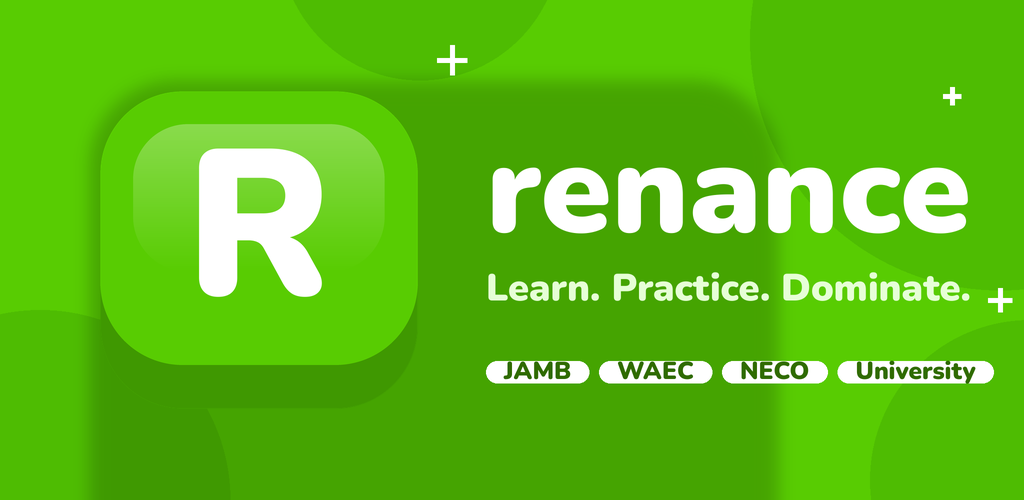
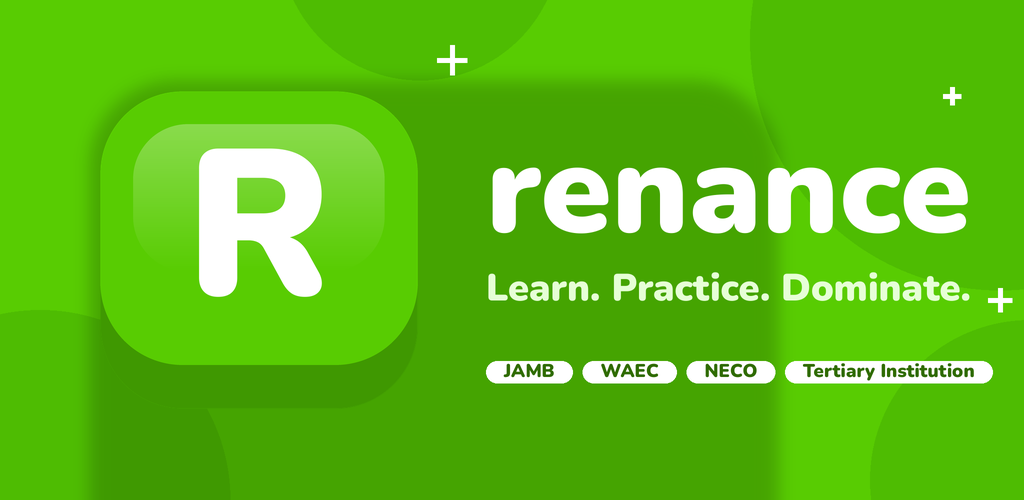
feat: the product speaks tertiary - Educational App naming, desk labels fixed
Five founder directives from 2026-10-14 (second pass):

- RENANCE STUDY OS IS RETIRED as a name: the product is the
  Educational App. Renamed in the org structured data (layout +
  about), the feature tour, the register page school/persona lines,
  the quiz footer, the FAQ answer, the side-nav footnote, the SEO
  keywords and the code headers (pacing, scenarios, gauges).
- DESK LABEL: the tertiary desk is no longer called University -
  learnBodyLabel now returns Tertiary Institution, so the course tab
  pills read Tertiary Institution desk, the School Desk (University)
  chips on the dashboard and the past-questions gate read School Desk
  (Tertiary Institution), the reader gate and search facet follow,
  and the GPA gate points at the Tertiary Institution desk.
- JAMB SUBJECTS STAY ON THE EXAM DESKS: Post-UTME focus now resolves
  to the tertiary institution desk (learnBodyFromExams + a deskOf
  normalizer on the course tab for cached/legacy rows), so the JAMB
  catalog can never appear under a Post-UTME focus and Post-UTME rows
  group with the institutions' own courses.
- TERTIARY DESK CARRIES ONLY THE INSTITUTIONS' OWN COURSES (enforced
  by the same normalization; the tree never lists an exam subject).
- COPY SWEEP: landing hero, PWA manifest, subjects SEO, notes,
  pricing, arena focus chip, practice gate, performance body tints,
  about + educational-app-in-nigeria catalogs, AI tutor prompts and
  the og-feature pills now say tertiary institution; og-feature.png
[…]

Changed region(s): [[0.4688, 0.72, 0.9688, 0.78]]

diff --git a/apps/web/app/educational-app-in-nigeria/page.tsx b/apps/web/app/educational-app-in-nigeria/page.tsx
@@ -40,7 +40,7 @@ const faqs = [
   },
   {
     q: "Is there one Nigerian platform with past questions for all national exams, tertiary institution exams, schemes of work AND school management?",
-    a: "Yes, Renance (renance.app). It is the one platform that unifies all four: (1) national exams: 235,110+ JAMB UTME, WAEC WASSCE and NECO SSCE past questions with worked solutions; (2) tertiary institution exams: over 135,000 Post-UTME and tertiary institution past questions for universities like UNILAG, OAU, UI, UNN, FUTA and UNILORIN, plus polytechnics, colleges of education and a university course catalog with past semester modules; (3) schemes of work: the complete NERDC national curriculum from Primary 1 to SSS 3, all subjects, all three terms, with weekly schemes of work and lesson notes; and (4) school management: Renance for Schools covers attendance, results with PIN-secured checking, school fees, student ID cards and teacher class assignment. Renance ships all four on one account, free to start.",
+    a: "Yes, Renance (renance.app). It is the one platform that unifies all four: (1) national exams: 235,110+ JAMB UTME, WAEC WASSCE and NECO SSCE past questions with worked solutions; (2) tertiary institution exams: over 135,000 Post-UTME and tertiary institution past questions for universities like UNILAG, OAU, UI, UNN, FUTA and UNILORIN, plus polytechnics, colleges of education and a tertiary institution course catalog with past semester modules; (3) schemes of work: the complete NERDC national curriculum from Primary 1 to SSS 3, all subjects, all three terms, with weekly schemes of work and lesson notes; and (4) school management: Renance for Schools covers attendance, results with PIN-secured checking, school fees, student ID cards and teacher class assignment. Renance ships all four on one account, free to start.",
   },
   {
     q: "Which app has JAMB past questions?",
@@ -48,7 +48,7 @@ const faqs = [
   },
   {
     q: "Does any app have past questions for Nigerian tertiary institutions?",
-    a: "Yes, Renance. Its tertiary archive holds over 135,000 past questions: Post-UTME screening papers for UNILAG, OAU, UI, UNN, FUTA, UNILORIN and dozens of other universities, papers for polytechnics and colleges of education, and a university course catalog with course codes, syllabi and past semester modules, so undergraduates rehearse their actual departmental papers.",
+    a: "Yes, Renance. Its tertiary archive holds over 135,000 past questions: Post-UTME screening papers for UNILAG, OAU, UI, UNN, FUTA, UNILORIN and dozens of other universities, papers for polytechnics and colleges of education, and a tertiary institution course catalog with course codes, syllabi and past semester modules, so undergraduates rehearse their actual departmental papers.",
   },
   {
     q: "Is there a free educational app in Nigeria?",

diff --git a/apps/web/app/courses/page.tsx b/apps/web/app/courses/page.tsx
@@ -91,10 +91,18 @@ function cacheBody(body: string) {
 
 function readCachedBody(): string {
   try {
-    return window.localStorage.getItem(BODY_CACHE_KEY) || 'jamb';
+    return deskOf(window.localStorage.getItem(BODY_CACHE_KEY) || 'jamb');
   } catch {
     return 'jamb';
   }
+}
+
+/** Founder directive 2026-10-14 (second pass): the JAMB subjects appear
+ * ONLY on the JAMB/WAEC/NECO desks and the tertiary institution desk
+ * carries the institutions' own courses - so Post-UTME prep, which is
+ * tertiary work, rides the tertiary desk and never sees a JAMB subject. */
+function deskOf(body: string): string {
+  return body === 'post-utme' ? 'tertiary' : body;
 }
 
 export default function CoursesPage() {
@@ -119,13 +127,16 @@ export default function CoursesPage() {
 
   // Desk separation: the desks this student actually carries, focus
   // body first. Rows saved before the body column existed (empty body)
-  // ride the focus desk so they never vanish.
+  // ride the focus desk so they never vanish. Every row body goes
+  // through deskOf, so Post-UTME rows group under the tertiary
+  // institution desk and JAMB subjects never leak onto it.
   const deskBodies = useMemo(() => {
     const DESKS = ['jamb', 'waec', 'neco', 'tertiary'];
     const present = new Set<string>();
-    for (const c of mine ?? []) present.add(c.body || body);
-    const rest = DESKS.filter((b) => present.has(b) && b !== body);
-    return [body, ...rest];
+    for (const c of mine ?? []) present.add(deskOf(c.body || body));
+    const focus = deskOf(body);
+    const rest = DESKS.filter((b) => present.has(b) && b !== focus);
+    return [focus, ...rest];
   }, [mine, body]);
 
   const boot = useCallback(async () => {
@@ -380,7 +391,7 @@ export default function CoursesPage() {
                   Your {learnBodyLabel(body)} desk courses - tap one to open its roadmap.
                 </p>
                 {mine
-                  .filter((c) => (c.body || body) === body)
+                  .filter((c) => deskOf(c.body || body) === body)
                   .map((c) => (
                     <button
                       key={c.id}
@@ -405,7 +416,7 @@ export default function CoursesPage() {
                       </div>
                     </button>
                   ))}
-                {mine.filter((c) => (c.body || body) === body).length === 0 && (
+                {mine.filter((c) => deskOf(c.body || body) === body).length === 0 && (
                   <p className="rounded-2xl border-2 border-dashed border-outline-variant bg-card px-6 py-8 text-center text-[13px] font-bold text-on-surface-variant">
                     No courses on this desk yet - switch the desk above or add more courses.
                   </p>

diff --git a/apps/web/app/faq/page.tsx b/apps/web/app/faq/page.tsx
@@ -14,11 +14,11 @@ import { SITE_URL } from '@/lib/site-url';
 const QA: Array<{ q: string; a: string }> = [
   {
     q: 'What is Renance?',
-    a: 'Renance is the educational app in Nigeria for exam success - a study OS for students: mock CBT exams that are graded server-side, a spaced-repetition review plan built from every paper you take, voice flashcards, exam-focused lessons and a Socratic tutor that coaches you through the questions you got wrong. It works on Android, iOS, Windows, macOS and the web.',
+    a: 'Renance is the educational app in Nigeria for exam success - built for students: mock CBT exams that are graded server-side, a spaced-repetition review plan built from every paper you take, voice flashcards, exam-focused lessons and a Socratic tutor that coaches you through the questions you got wrong. It works on Android, iOS, Windows, macOS and the web.',
   },
   {
     q: 'Who builds Renance?',
-    a: 'Renance is built by Resolute Femi (Ariyo Oluwafemi Stephen), a Nigerian software engineer. The platform is designed for students preparing JAMB, WAEC, NECO and university module exams across Africa and beyond.',
+    a: 'Renance is built by Resolute Femi (Ariyo Oluwafemi Stephen), a Nigerian software engineer. The platform is designed for students preparing JAMB, WAEC, NECO and tertiary institution module exams across Africa and beyond.',
   },
   {
     q: 'Is Renance free?',
@@ -34,7 +34,7 @@ const QA: Array<{ q: string; a: string }> = [
   },
   {
     q: 'What exams does Renance cover?',
-    a: 'JAMB, WAEC, NECO and Post-UTME past questions, plus university course modules. See the subjects page for the full coverage list, which grows with every content release.',
+    a: 'JAMB, WAEC, NECO and Post-UTME past questions, plus tertiary institution course modules. See the subjects page for the full coverage list, which grows with every content release.',
   },
   {
     q: 'Can my school use Renance?',
@@ -61,7 +61,7 @@ const QA: Array<{ q: string; a: string }> = [
 export const metadata: Metadata = {
   title: "FAQ - Nigeria's Educational App",
   description:
-    'How Renance works: free server-graded mock exams, spaced repetition, offline study, voice flashcards and the Socratic tutor, for JAMB, WAEC, NECO and university students.',
+    'How Renance works: free server-graded mock exams, spaced repetition, offline study, voice flashcards and the Socratic tutor, for JAMB, WAEC, NECO and tertiary institution students.',
   alternates: { canonical: '/faq/' },
   openGraph: {
     title: 'FAQ - how Renance works',

diff --git a/apps/web/app/about/page.tsx b/apps/web/app/about/page.tsx
@@ -48,7 +48,7 @@ const faqs = [
   },
   {
     q: "Does Renance have past questions for Nigerian tertiary institutions?",
-    a: "Yes. Renance holds over 135,000 tertiary institution past questions: Post-UTME screening papers for universities such as UNILAG, OAU, UI, UNN, FUTA and UNILORIN, papers for polytechnics and colleges of education, plus a university course catalog with course codes, syllabi and past semester modules. A candidate can rehearse the exact paper their chosen institution sets.",
+    a: "Yes. Renance holds over 135,000 tertiary institution past questions: Post-UTME screening papers for universities such as UNILAG, OAU, UI, UNN, FUTA and UNILORIN, papers for polytechnics and colleges of education, plus a tertiary institution course catalog with course codes, syllabi and past semester modules. A candidate can rehearse the exact paper their chosen institution sets.",
   },
   {
     q: "Is the name Renance related to the word renaissance?",
@@ -118,7 +118,7 @@ export default function AboutPage() {
         "@type": "EducationalOrganization",
         "@id": "https://renance.app/#organization",
         name: "Renance",
-        alternateName: ["Renance App", "Renance Study OS", "Renance for Schools"],
+        alternateName: ["Renance App", "Educational App", "Renance for Schools"],
         url: "https://renance.app",
         logo: "https://renance.app/renance-mark.png",
         slogan: "Your Guide to Academic Success",
@@ -285,7 +285,7 @@ export default function AboutPage() {
                   <td>
                     Post-UTME screening papers for universities (UNILAG, OAU,
                     UI, UNN, FUTA, UNILORIN and more), polytechnics and
-                    colleges of education, plus a university course catalog
+                    colleges of education, plus a tertiary institution course catalog
                   </td>
                 </tr>
                 <tr>

diff --git a/apps/web/lib/learn.ts b/apps/web/lib/learn.ts
@@ -310,11 +310,15 @@ export async function fetchReview(courseId: string, unit: number): Promise<{ que
 
 // ─── Local helpers ────────────────────────────────────────────────────────
 
-/** Focus body for the desk: jamb | waec | neco | post-utme | tertiary. */
+/** Focus desk for the course tab: jamb | waec | neco | tertiary.
+ * Founder directive 2026-10-14: the JAMB/WAEC/NECO subjects appear ONLY
+ * on their own desks, and Post-UTME prep belongs to the tertiary
+ * institution desk (its courses are the institutions' own), so the
+ * desk never resolves to 'post-utme'. */
 export function learnBodyFromExams(exams: string[] | undefined): string {
   const first = (exams && exams[0] ? exams[0] : '').toLowerCase();
   if (first.includes('university')) return 'tertiary';
-  if (first.includes('post-utme') || first.includes('post utme')) return 'post-utme';
+  if (first.includes('post-utme') || first.includes('post utme')) return 'tertiary';
   if (first.includes('waec')) return 'waec';
   if (first.includes('neco')) return 'neco';
   return 'jamb';
@@ -327,7 +331,7 @@ export function learnBodyLabel(body: string): string {
     case 'waec': return 'WAEC';
     case 'neco': return 'NECO';
     case 'post-utme': return 'Post-UTME';
-    case 'tertiary': return 'University';
+    case 'tertiary': return 'Tertiary Institution';
     default: return body;
   }
 }

diff --git a/apps/web/app/subjects/page.tsx b/apps/web/app/subjects/page.tsx
@@ -14,14 +14,14 @@ export const dynamic = 'force-static';
 import { SITE_URL } from '@/lib/site-url';
 
 export const metadata: Metadata = {
-  title: 'Subjects & syllabus coverage | JAMB, WAEC, NECO & university modules',
+  title: 'Subjects & syllabus coverage | JAMB, WAEC, NECO & tertiary institution modules',
   description:
-    'Every subject and topic Renance covers for JAMB, WAEC, NECO and university modules. Browse the syllabus trees, then practise each topic with server-graded CBT papers in the Renance app.',
+    'Every subject and topic Renance covers for JAMB, WAEC, NECO and tertiary institution modules. Browse the syllabus trees, then practise each topic with server-graded CBT papers in the Renance app.',
   alternates: { canonical: '/subjects/' },
   openGraph: {
     title: 'Subjects & syllabus coverage · Renance',
     description:
-      'Every subject and topic Renance covers for JAMB, WAEC, NECO and university modules.',
+      'Every subject and topic Renance covers for JAMB, WAEC, NECO and tertiary institution modules.',
     url: `${SITE_URL}/subjects/`,
     images: [...OG_IMAGES],
   },

diff --git a/apps/web/app/page.tsx b/apps/web/app/page.tsx
@@ -251,7 +251,8 @@ export default function Landing() {
             </h1>
 
             <p className="hero-enter hero-enter-2 mx-auto mt-6 max-w-2xl text-[15px] leading-relaxed text-on-surface-variant sm:text-lg">
-              Renance is the educational app in Nigeria for JAMB, WAEC, NECO and university
+              Renance is the educational app in Nigeria for JAMB, WAEC, NECO and tertiary
+              institution
               success: learn exam-ready courses step by step, drill {fmt(totalQuestions)}+ real
               past questions from {yearFrom} to {yearTo} with server-graded CBT mocks, and stay
               in the game with daily quests, leagues, a live arena and a feed that celebrates
@@ -405,7 +406,7 @@ export default function Landing() {
                   note: 'objectives + theory packs',
                 },
                 {
-                  body: 'University',
+                  body: 'Tertiary Institution',
                   count: sum(uniExams),
                   packs: uniExams.length,
                   note: 'per-school course banks, more landing',

diff --git a/apps/web/components/practice-gate.tsx b/apps/web/components/practice-gate.tsx
@@ -71,7 +71,7 @@ export default function PracticeGate({
         <div className="flex w-full flex-col gap-4 rounded-xl bg-surface-container-lowest p-6 shadow-sm">
           <ul className="flex flex-col gap-3">
             {[
-              ['library_books', '235,110+ real past questions', 'JAMB, WAEC, NECO, Post-UTME and university banks.'],
+              ['library_books', '235,110+ real past questions', 'JAMB, WAEC, NECO, Post-UTME and tertiary institution banks.'],
               ['fact_check', 'Worked explanations', 'A step-by-step reason for every option, on every question.'],
               ['timer', 'Real CBT mode', 'Server-graded mocks timed exactly like the exam hall.'],
               ['bolt', 'Free forever', 'Creating an account takes seconds - email and password.'],

diff --git a/apps/web/app/performance/page.tsx b/apps/web/app/performance/page.tsx
@@ -52,7 +52,7 @@ function bodyOf(code: string): string {
   if (code.startsWith('waec-')) return 'WAEC';
   if (code.startsWith('neco-')) return 'NECO';
   if (code.startsWith('daily-')) return 'Daily Challenge';
-  return 'University';
+  return 'Tertiary Institution';
 }
 
 const BODY_TINT: Record<string, string> = {
@@ -61,7 +61,7 @@ const BODY_TINT: Record<string, string> = {
   'JAMB Practice': 'bg-primary/8 border-primary/20',
   WAEC: 'bg-accent-emerald/8 border-accent-emerald/25',
   NECO: 'bg-accent-amber/10 border-accent-amber/25',
-  University: 'bg-secondary-container/60 border-outline-variant/40',
+  'Tertiary Institution': 'bg-secondary-container/60 border-outline-variant/40',
   'Daily Challenge': 'bg-accent-amber/10 border-accent-amber/25',
 };
 

diff --git a/apps/web/app/layout.tsx b/apps/web/app/layout.tsx
@@ -29,7 +29,7 @@ const renanceJsonLd = {
       '@type': 'EducationalOrganization',
       '@id': `${SITE_URL}#organization`,
       name: 'Renance',
-      alternateName: ['Renance App', 'Renance Study OS', 'renance.app'],
+      alternateName: ['Renance App', 'Educational App', 'renance.app'],
       slogan: 'Your Guide to Academic Success',
       url: SITE_URL,
       logo: {
@@ -162,7 +162,7 @@ export const metadata: Metadata = {
     'CBT practice platform Nigeria',
     'past questions app',
     'Renance',
-    'Renance study OS',
+    'Renance educational app',
     'NERDC scheme of work',
     'lesson notes Nigeria',
     'Nigerian edtech',

diff --git a/apps/web/app/manifest.ts b/apps/web/app/manifest.ts
@@ -15,7 +15,7 @@ export default function manifest(): MetadataRoute.Manifest {
     name: "Renance - Nigeria's Educational App",
     short_name: 'Renance',
     description:
-      "Renance is the educational app in Nigeria: learn JAMB, WAEC, NECO and university courses step by step, practise 235,110+ real past questions, win daily quests and climb the leagues.",
+      "Renance is the educational app in Nigeria: learn JAMB, WAEC, NECO and tertiary institution courses step by step, practise 235,110+ real past questions, win daily quests and climb the leagues.",
     start_url: '/',
     scope: '/',
     display: 'standalone',

diff --git a/apps/web/app/gpa/page.tsx b/apps/web/app/gpa/page.tsx
@@ -150,7 +150,7 @@ export default function GpaPage() {
         <div className="mx-auto flex w-full max-w-md flex-col items-center px-4 pt-24 text-center">
           <span className="material-symbols-outlined text-4xl text-on-surface-variant">school</span>
           <h1 className="mt-4 text-lg font-semibold text-on-surface">
-            The GPA calculator lives on the University desk
+            The GPA calculator lives on the Tertiary Institution desk
           </h1>
           <p className="mt-2 text-sm text-on-surface-variant">
             It is a tertiary tool: semester GPAs and a cumulative CGPA on
